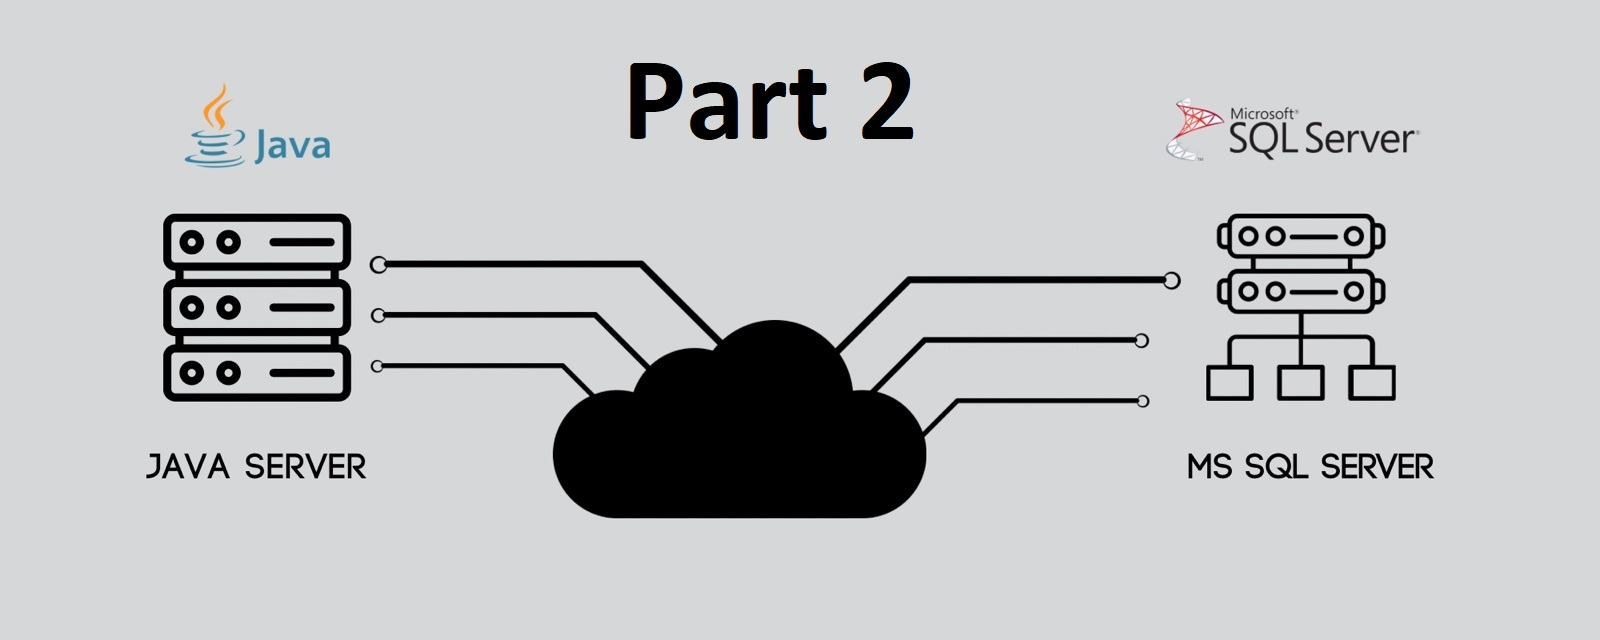
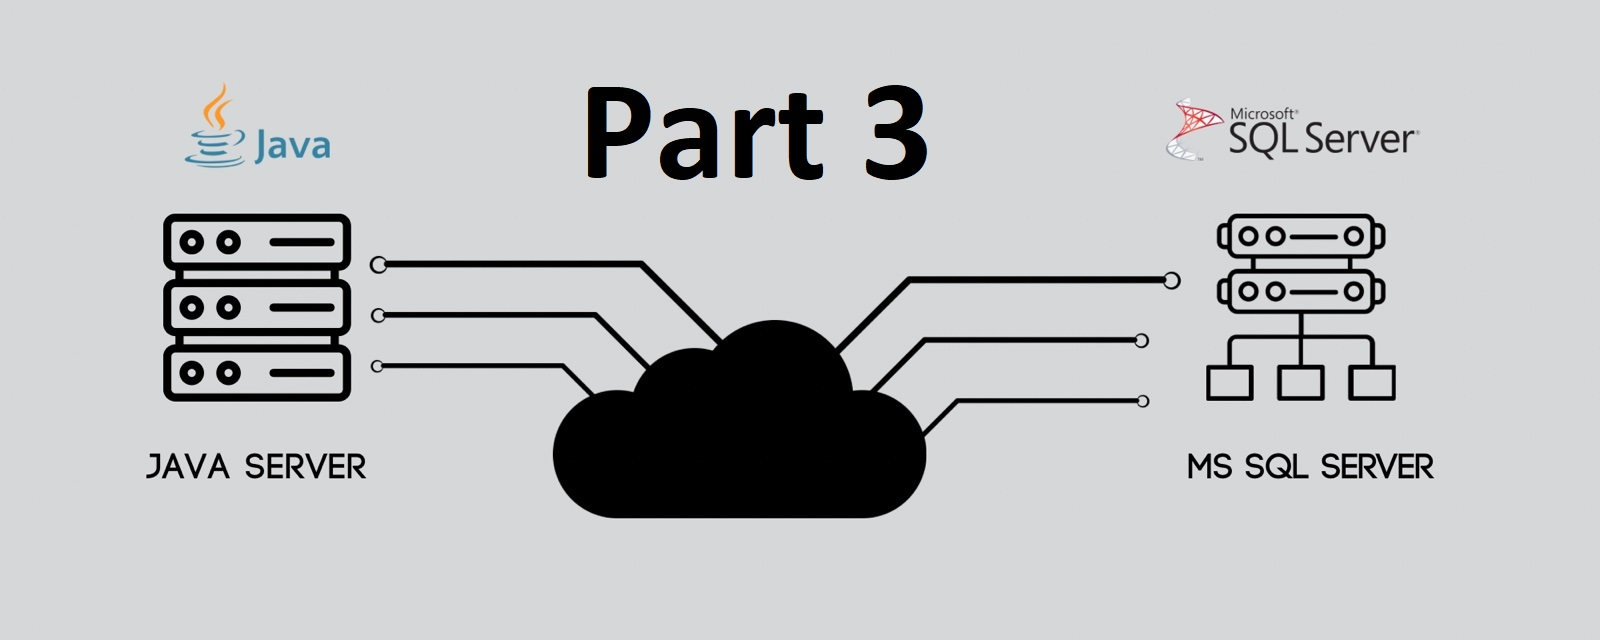
Finished part 3 of fastest insert

Changed region(s): [[0.3438, 0.0938, 0.5938, 0.2812]]

diff --git a/content/post/java/mssqlserver/fast_insert_part3/index.md b/content/post/java/mssqlserver/fast_insert_part3/index.md
@@ -1,7 +1,7 @@
 ---
 title: Fastest Way To Insert the Data in MS SQL – Part 3 – Multi-value insert vs Bulk Api
-date: 2023-12-23
-draft: true
+date: 2024-02-11
+draft: false
 usePageBundles: true
 featureImage: 'java_sending_data_to_mssql_server.jpg' # Top image on post.
 featureImageAlt: 'java sending data to mssql server' # Alternative text for featured image.
@@ -30,7 +30,7 @@ The insert statement will take the following form: `insert into table (c1, c2, c
 The maximum number of value bindings that can be included in one statement is `2,100`, 
 consistent with any other MS SQL Server statement.
 
-## How multiple values inserts impact performance
+## How multiple values insert impact performance
 Firstly, we will compare this multiple value insert with a single value insert
 and check if increasing the number of value bindings per insert statement improves
 performance.
@@ -86,28 +86,28 @@ public <T> void insertBulk(TableDescriptor<T> tableDescriptor,
 
 I ran multiple tests with different batch sizes and the number of people
 per insert. Each person has five fields, so the number of binding values per
-insert is actually `numOfPeoplePerInsert * 5`.
+insert is actually the number of people per insert times five.
 
 The results:
 
-| Number of people per insert | Batch size | Median duration |
-|-----------------------------|------------|-----------------|
-| 400                         | 100        | 4175            |
-| 400                         | 10         | 4275            |
-| 400                         | 1000       | 4348            |
-| 400                         | 10000      | 4697            |
-| 100                         | 1000       | 5335            |
-| 100                         | 100        | 5359            |
-| 100                         | 10         | 5585            |
-| 100                         | 10000      | 5873            |
-| 10                          | 10000      | 6302.5          |
-| 10                          | 1000       | 6331            |
-| 10                          | 100        | 6512            |
-| 10                          | 10         | 8027.5          |
-| 1                           | 10000      | 14792.5         |
-| 1                           | 1000       | 15222           |
-| 1                           | 100        | 17812.5         |
-| 1                           | 10         | 25252           |
+| Number of people per insert | Batch size | Median duration (ms) |
+|-----------------------------|------------|----------------------|
+| 400                         | 100        | 4175                 |
+| 400                         | 10         | 4275                 |
+| 400                         | 1000       | 4348                 |
+| 400                         | 10000      | 4697                 |
+| 100                         | 1000       | 5335                 |
+| 100                         | 100        | 5359                 |
+| 100                         | 10         | 5585                 |
+| 100                         | 10000      | 5873                 |
+| 10                          | 10000      | 6302.5               |
+| 10                          | 1000       | 6331                 |
+| 10                          | 100        | 6512                 |
+| 10                          | 10         | 8027.5               |
+| 1                           | 10000      | 14792.5              |
+| 1                           | 1000       | 15222                |
+| 1                           | 100        | 17812.5              |
+| 1                           | 10         | 25252                |
 
 ![Multi-value insert](numOfParametersBenchmark.webp)
 
@@ -120,18 +120,18 @@ with a batch size of 100.
 ## Multi-value insert vs Bulk API
 
 After concluding that we have much better performance with multi-value inserts,
-I will now compare Bulk API inserts with JDBC Template inserts.
+I will now compare Bulk API inserts with JDBC Template 400-person inserts per statement.
 
-| Method name   | Median duration | Batch size |
-|---------------|-----------------|------------|
-| Bulk Api      | 3188.5          | 10000      |
-| Jdbc Template | 4175            | 100        |
-| Jdbc Template | 4275            | 10         |
-| Jdbc Template | 4348            | 1000       |
-| Bulk Api      | 4358            | 1000       |
-| Jdbc Template | 4697            | 10000      |
-| Bulk Api      | 14440.5         | 100        |
-| Bulk Api      | 101251.5        | 10         |
+| Method name   | Batch size | Median duration (ms) |
+|---------------|------------|----------------------|
+| Bulk Api      | 10000      | 3188.5               |
+| Jdbc Template | 100        | 4175                 |
+| Jdbc Template | 10         | 4275                 |
+| Jdbc Template | 1000       | 4348                 |
+| Bulk Api      | 1000       | 4358                 |
+| Jdbc Template | 10000      | 4697                 |
+| Bulk Api      | 100        | 14440.5              |
+| Bulk Api      | 10         | 101251.5             |
 
 ![Multi-value insert vs Bulk Api](multipleParamsVsBulkApi.webp)
 
@@ -141,20 +141,27 @@ However, when we increase the batch size for JDBC Template to more than 100,
 the performance worsens. Therefore, we should be careful when setting the batch
 size for JDBC Template with multi-value inserts.
 
-## Microsoft SQL `useBulkCopyForBatchInsert` parameter
-Per [Microsoft SQL server documentation](https://learn.microsoft.com/en-us/sql/connect/jdbc/use-bulk-copy-api-batch-insert-operation?view=sql-server-ver16)
-there is additional parameter that can be included and that promises significant performance improvements for insert statements.
-Althrough, it has a lot of conditions that has to be meet to make it work for insert statement. I would be careful 
-about decision about turning on this parameter on produciton. Eatherway, let's test the performance and compare the results.
+[//]: # (## Microsoft SQL `useBulkCopyForBatchInsert` parameter)
+
+[//]: # (Per [Microsoft SQL server documentation]&#40;https://learn.microsoft.com/en-us/sql/connect/jdbc/use-bulk-copy-api-batch-insert-operation?view=sql-server-ver16&#41;)
+
+[//]: # (there is additional parameter that can be included and that promises significant performance improvements for insert statements.)
+
+[//]: # (Althrough, it has a lot of conditions that has to be meet to make it work for insert statement. I would be careful )
+
+[//]: # (about decision about turning on this parameter on produciton. Eatherway, let's test the performance and compare the results.)
 
 
 
 ## Conclusion
 
-Based on the results above we can conclude that multi-value inserts drastically improve insert performances and that
-you should definetelly consider it if you have performance problems. On the other hand, if you need to insert huge
+Based on the results above, we can conclude that multi-value inserts drastically improve insert performances and that
+you should definitely consider it if you have performance problems. On the other hand, if you need to insert a huge 
 amount of data, then Bulk API insert is the king. 
 
+For updates, you can follow me on [Twitter](https://twitter.com/mare_milenkovic) or [LinkedIn](https://www.linkedin.com/in/mare-milenkovic/).
+
+Thank you for your attention.
 
 
 
